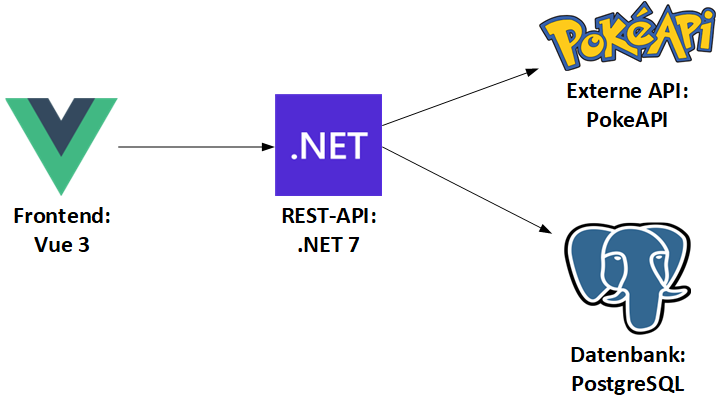
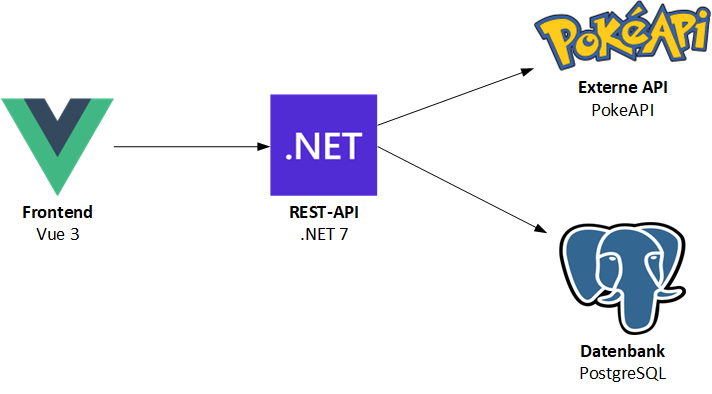
Update Dokumentation/Readme auf neusten Stand

diff --git a/README.md b/README.md
@@ -1,12 +1,22 @@
 # Projektdokumentation
-*Dokumentation zur Projektarbeit im Fach "Software-Qualitätssicherung" an der TH Rosenheim (SoSe23) von Karl Herzog*
+
+>Dokumentation zur Projektarbeit im Fach "Software-Qualitätssicherung" an der TH Rosenheim (SoSe23) von Karl Herzog
+
 Der Aufbau dieser Dokumentation orientiert sich am offiziellen [Arc42-Template](https://docs.arc42.org/home/)
+
+
+
+## Kapitel 0: Voraussetzungen
+Folgende Softwarevoraussetzungen müssen zum lokalen Testen der Anwendung gegegeben sein:
+- Node.js
+- .NET 7
+- eine laufende PostgreSQL-Instanz
 
 ## Kapitel 1: Einleitung
 ### Fachliche Anforderungen
 Die *PokemonApp* soll es dem Nutzer ermöglichen, Basisinformationen zu allen derzeit bekannten Pokemon zu erhalten. Nach Eingabe der individuellen Nummer eines Pokemon werden sein Name, sein Bild in Form eines Sprite sowie sein Typ bzw. Typen (sofern das Pokemon zwei Typen besitzt) angezeigt. Sind die entsprechenden Daten in der angebundenen SQL-Datenbank bereits vorhanden, werden sie direkt über eine Datenbankabfrage gewonnen. Ansonsten erfolgt eine HTTP-ReST Anfrage über die öffentlich verfügbare [PokeAPI](https://pokeapi.co/) und die erhaltenen Daten in der Datenbank abgespeichert. Dadurch soll sichergestellt werden, dass im Falle des Nichtvorhandenseins der API dennoch ein Mindestmaß an positiver User Experience gegeben ist und bereits vorhandene Daten weiterhin abgerufen werden können.
 ### Qualitätsziele
-Die relevanten Qulaitätsziele werden in Kapitel 10 im Details erläutert.
+Die relevanten Qualitätsziele werden in [Kapitel 10](#kapitel-10-qualität) im Details erläutert.
 ### Stakeholder
 Stakeholder des Projekts sind die Studenten sowie der Dozent im Fach "Software-Qualitätssicherung" an der TH Rosenheim.
 
@@ -18,8 +28,9 @@ Bekannte, nicht veränderbare Beschränkungen sind die Vorgaben des Dozenten zur
 - Externe REST-API
 
 ## Kapitel 3: Kontext
-Das Kontextdiagramm zeigt den Kontext des Systems, seine Abgrenzung nach Außen, sowie seine Interaktion mit Benutzern und externen Systemen.
+Das Kontextdiagramm zeigt die logische Architektur des Systems, seine Abgrenzung nach Außen sowie seine Interaktion mit Benutzern und externen Systemen.
 ![Kontextdiagramm](Grafiken/Kontextdiagramm.png)
+
 
 ## Kapitel 4: Lösungsstrategie
 ### Technische Entscheidungen
@@ -42,11 +53,90 @@ Bei **.NET** handelt es sich um eines der meistverbreitetsten Frameworks für An
 **PokeAPI** ist ein hervoragend gepflegtes, umfangreiches REST-API zum Abruf von Pokemon-Daten. Seine kostenlose Nutzung und der Verzicht auf einen API-Key gestlten die Einbindung in die PokemonApp besonders einfach und performant.
 
 ### Qualitätsentscheidungen
-Die festgelegten Qualitätsziele für die PokemonApp werden in [Kapitel 10](#kapitel-10:-qualität) näher ausgeführt.
+Die festgelegten Qualitätsziele für die PokemonApp werden in [Kapitel 10](#kapitel-10-qualität) näher ausgeführt.
+
+## Kapitel 5: Baustein-Sicht 
+Die Bausteinsicht ist bereits aus dem Kontextdiagramm in [Kapitel 3](#kapitel-3-kontext) ersichtlich und bedarf aufgrund der Einfachheit der Anwendung keiner weiteren Erläuterung.
+
+Eine Schnittstellendefinition ist nach dem Starten der Anwendung unter [http://localhost:5099/swagger/index.html](http://localhost:5099/swagger/index.html) erreichbar.
+
+## Kapitel 6: Runtime-Sicht
+Das Systemverhalten und das Zusammenspiel der Komponenten lässt sich wie folgt beschreiben:
+
+Nach einer Nutzereingabe prüft das Frontend die Eingabe auf eine gültige Pokemon-Nummer. Bei einer falschen Eingabe, die keinen Integerwert darstellt oder die Anzahl der bisher bekannten Pokemon übersteigt, erhält der Nutzer eien Fehlermeldung und der Eingabebutton wird entsprechend deaktiviert, um das Absenden der falschen Anfrage zu verhindern. 
+
+Im Falle einer korrekten Eingabe wird die Nutzeranfrage an den REST-Controller im Backend weitergeleitet. Dieser führt ein Parsing und Prüfung des Wertes durch und leitet diesen dann an den entsprenen Service weiter.
+
+Der Service prüft das Vorhandensein der Pokemon-nummer in der verknüpften SQL-Datenbank. Ist die Prüfung positiv, so gibt der Service die entsprechenden Daten vom Backend zurück an das Frontend, wo die Basisinformationen des jeweiligen Pokemon angezeigt werden.
+
+Ist die angefragte Nummer jedoch nicht in der Datenbank lokal zwischengespeichert, so führt der Service einen GET-Request an ein externes REST-API aus, führt danach ein Parsing der erhaltenen Daten durch, speichert diese in der lokalen Datenbank und reicht schließlich die Daten an das Frontend zur Anzeige weiter.
+
+## Kapitel 7: Deployment-Sicht
+Als Ausführungsumgebung dient ein Webserver für das Front, ein Applikationsserver für das Backend und ein Datenbankserver. Aufgrund der Einfachheit der Anwendung können alle Komponenten sowohl in einer eignen virtualisierungsumgebung (On-Premise) deployt werden als auch containerisiert in der Cloud.
+
+Während der Entwicklungs- und Testphase wurde die Anwendung lokal deployt und laufen gelassen. Für größere, komplexere Anwendungen ist die Einrichtung verschiedener Umgebungen (Development, Test, Staging, Production) unerlässlich. Im Kontext dieses Projekt wurde aber aufgrund der Einfachheit der Anwendung auf solch eine Unterteilung verzichtet.
+
+## Kapitel 8: Querschnittskonzepte
+
+### Sicherheit
+Die Sicherheit des Systems wird im Zuge sog. Security-Tests geprüft. Da der Client nur lesenden Zugriff auf das REST-API erhält wird auf weitergehnde Authentifizierungsmaßnahmen bewusst verzichtet
+
+### Internationalisierung
+Aufgund der geringen Größe ist die Anwendung durchwegs in englischer Sprache gehalten. Ein Konzept für eine Internationalisierung erscheint erst bei zunehmender Komplexität der Anwendung sinnvoll.
+
+### User Interface
+Die Benutzerschnittstelle ist möglichst ergonomisch und einfach verständlich gestaltet, sodass keine großen Hindernisse bei der Bedienungbestehen. Mithilfe des CSS-Frameworks Bootstrap erhält die Oberfläche ein modernes und vielen Benutzer vertrautes Erscheinungsbild.
+
+### User Experience
+Die verwendete SQL-Datenbank dient als lokaler Zwischenspeicher, sollte die externe REST-API aus Gründen, die der Entwickler nicht zu vertreten hat, temporär nicht erreichbar sein. Damit soll ein Mindestmaß an Benutzbarkeit geschaffen werden, da der Nutzer wenigstens solche Daten abfragen kann, die bereits einmal in der Datenbank gespeichert wurden. Mit diesem Schritt soll also eine möglichst positive User Experience sichergestellt werden.
+
+### Interna (Under-the-hood)
+Eine Plausibilitätsprüfung bzw. Validierung der Nutzereingabe auf Frontend- und Backend-Ebene wird durchgeführt.
+
+Ein explizites Session Handling erscheint aufgrund des Nutzungskontexts sowie Größe der Anwendung nicht praktikabel.
+
+Eine Skalierung ist aufgrund des modularen Aufbaus der Anwendung bei Bedarf und stiegender Komplexität jederzeit möglich. In diesem Falle sollte auch über die Einführung einer expliziten Lösung für das Monitoring bzw. Logging nachgedacht werden.
+
+Der Bedarf nach einer Administration der Anwendung über eine gesonderte Oberfläche besteht aufgrund des geringen Projektumfanges nicht. Die verwendete PostgreSQL-Datenbank ist jedoch über das integrierte Administrationstool *pgAdmin* verwaltbar.
+
+Eine elaborierte Persistenzstrategie erscheint in diesem Projekt nicht nötig, da die Datenbank hauptsächlich den Zweck eines lokalen Zwischenspeichers erfüllt und keine sensiblen Daten gesichert werden müssen, welche eine explizite Backup-Strategie verlangen würden.
+
+## Kapitel 9: Architekturentscheidungen
+Die wichtigsten Entscheidungen mit Auswirkungen auf die Architektur werden als sog. *Architecture decision records* (ADR) nach dem Nygard-Schema dokumentiert.
+|Sektion    |Beschreibung|
+|---        |---         |
+|Titel   |ADR 1: Architektur-Pattern für Backend   |
+|Kontext   | Die Architektur und der Aufbau des Backends ist die fundamentale Entscheidung vor Entwicklungsbeginn, die über den gesamten Prozess hin bestehen bleiben soll  |
+|Entscheidung   | MVC-Pattern (Model-View-Controller)  |
+|Status   | Akzeptiert  |
+|Konsequenzen   | Die Festlegung auf das bekannte und verbreitete MVC-Pattern stellt nicht nur gängige Praxis dar, sondern ermöglicht neuen Entwicklern, die damit in der Regel sehr gut vertrat sind, eine schnelle Einarbeitung in das Projekt. Eine spätere Änderung dieser Entscheidung würde womöglich eine komplette Neuentwicklung nötig machen und ist daher unbedingt zu vermeiden.|
+
+|Sektion    |Beschreibung|
+|---        |---         |
+|Titel   |ADR 2: Build- und Entwicklungsserver für Frontend   |
+|Kontext   | Ein schneller Build- und Entwicklungsserver ist für die effiziente Entwicklung des Frontends unerlässlich und sollte an das gewählte JavaScript-Framework (hier: Vue) angepasst werden   |
+|Entscheidung   | [Vite](https://vitejs.dev/)  |
+|Status   | Akzeptiert   |
+|Konsequenzen   | Durch die Unterstützung vom ES6-Modulen und dem sog. *Hot Module Replacement* werden Änderungen am Frontend deutlich schneller gerendert und unterstützen den Entwickler daher spürbar. Desweiteren ist Vite zum Paketieren der Anwendung nutzbar, sodass weitere Bibliotheken entfallen |
+
+|Sektion    |Beschreibung|
+|---        |---         |
+|Titel   | ADR 3: Datenbank-Typ  |
+|Kontext   | Es muss eine Wahl zwischen SQL-basierten und NoSQL-basierten Datenbanken getroffen werden  |
+|Entscheidung   | SQL-basiertes Datenbanksystem  |
+|Status   | Akzeptiert  |
+|Konsequenzen   | Da die Datenbank im Projekt hauptsächlich als lokaler Zwischenspeicher dient und relativ geringe Datenmengen anfallen, ist eine SQL-basierte Datenbank vor allem aufgrund ihrer Konsistenz und Datenintegrität (ACID) einer NoSQL-Datenbank in jedem Fall vorzuziehen  |
+
+|Sektion    |Beschreibung|
+|---        |---         |
+|Titel   | ADR 4: Kommunikation zwischen Komponenten |
+|Kontext   |  Es soll ein einfaches und verbreites Schema für die Kommunikation von Komponenten in verteilten Systemen gewählt werden.  |
+|Entscheidung   |  REST |
+|Status   | Akzeptiert  |
+|Konsequenzen   | Aus pragmatischen Gründen bietet sich REST für den Projektkontext an, da es sich um eines der verbreitetsten Konzepte handelt, das nahezu jeder Entwickler beherrschen dürfte. Eine Wahl von Alternativen wie GraphQL scheint zu riskant, da nicht automatisch davon ausgegangen werden kann, dass es von neuen Entwicklern beherrscht wird. Außerdem macht die überschaubare Datenmenge, welche von der Abwendung abgefragt wird eine Verwendung von alternativen, (möglicherweise performanteren) Konzepten überflüssig |
 
 
 ## Kapitel 10: Qualität
-
 ### Nicht-funktionale Qualitätsanforderungen:
 (Arc42, nonfunctional requirements, Qualitätseigenschaften ("-ilities"))
 
@@ -56,23 +146,19 @@ Die festgelegten Qualitätsziele für die PokemonApp werden in [Kapitel 10](#kap
 
 - **Verfügbarkeit**: Die Anwendung soll eine zuverlässige und hohe Verfügbarkeit von 99% aufweisen, um sicherzustellen, dass sie für Benutzer beinahe jederzeit verfügbar ist.
 
-- **Wartbarkeit und Erweiterbarkeit**: Durch Schnittstellen und modularen Aufbau soll die Wartbarkeit der Anwendung gefördert werden, um diese bestmöglich aktualisieren und erweitern zu können, beispielsweise bei einer Änderung der PokeAPI, der JSON-Struktur der HTTP-Response oder dem Hinzukommen neuer Pokemon beim Erscheinen neuer Spiele. 
+- **Wartbarkeit und Erweiterbarkeit**: Durch Schnittstellen und modularen Aufbau soll die Wartbarkeit der Anwendung gefördert werden, um diese bestmöglich aktualisieren und erweitern zu können, beispielsweise bei einer Änderung der PokeAPI, der JSON-Struktur des HTTP-Response oder Hinzukommen neuer Pokemon nach dem Erscheinen neuer Spiele. 
 
 - **Testbarkeit**: Die Anwendung soll durch modularen Aufbau zuverlässig testbar sein und eine Testabdeckung von mind. 80% aufweisen.
 
-- **Benutzerfreundlichkeit**: Das Nutzer-Interface soll ergonomisch gestaltet und selbsterklärend bedienbar sein. Sämliche Funktionen sollen innerhalb von maximal 2 Klicks erreichbar sein, um eine positive Benutzererfahrung zu bieten.
+- **Benutzerfreundlichkeit**: Das Nutzer-Interface soll ergonomisch gestaltet und selbsterklärend bedienbar sein. Alle Funktionen sollen innerhalb von maximal 2 Klicks erreichbar sein, um eine positive Benutzererfahrung zu bieten.
 
 - **Interoperabilität und Integration**: Die Anwendung soll in der Lage sein, mit anderen Systemen und Komponenten durch APIs und Schnittstellen zu kommunizieren
 
 - **Wirtschaftlichkeit**: Die Kosten für Entwicklung und Betrieb der Anwendung sollen durch ausschließlichen Einsatz von Open-Source-Tools minimiert werden.
 
-- **Konformität**: Die Anwendung muss konform mit den relevanten Datenschutzgesetzen und -vorschriften sein und keinerlei persönliche Daten verarbeiten.
+- **Konformität**: Die Anwendung muss konform mit den relevanten Datenschutzgesetzen und -vorschriften sein und soll keinerlei persönliche Daten verarbeiten.
 
-## Gewählter Technikstack:
-- Frontend: Vue 3 mit Vite-Buildserver
-- Backend: .NET 7.0
-- Datenbank: PostgreSQL
-- OR-Mapper: Entity Framework
+## KApitel 11: Qualitätssichernde Maßnahmen und Tests
 
 ## Gewählte Test-Tools
 - Unit-Tests: xUnit
